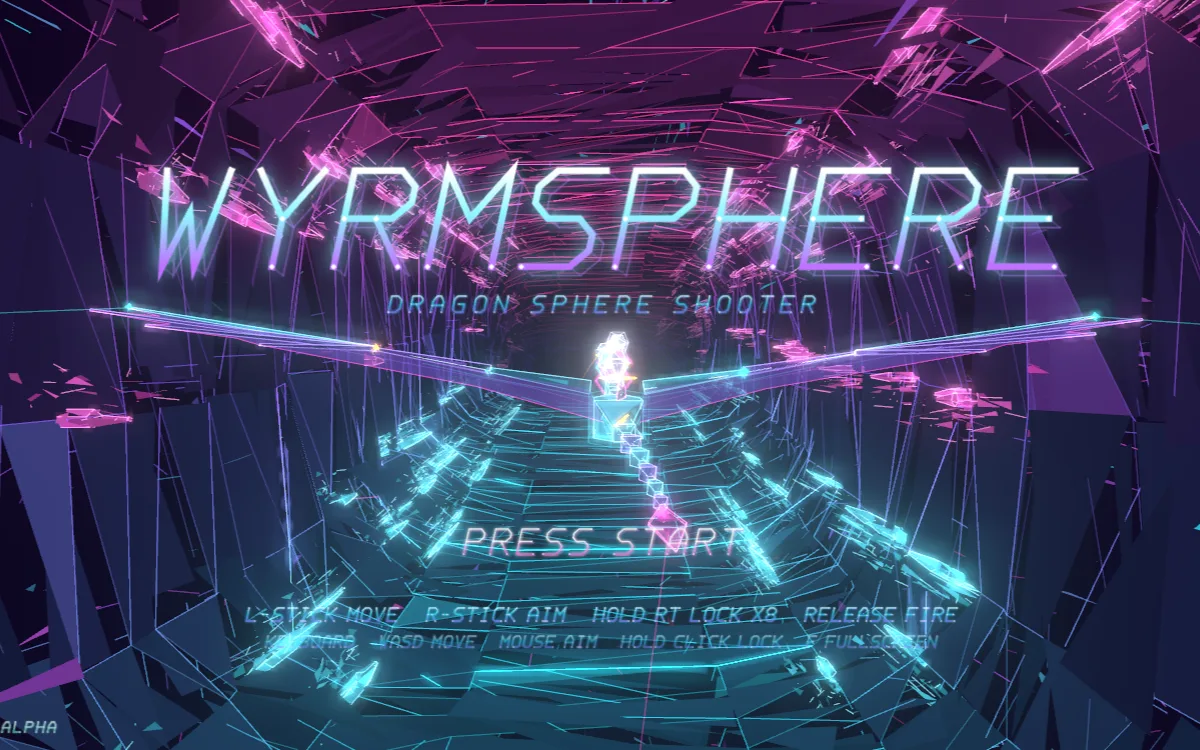
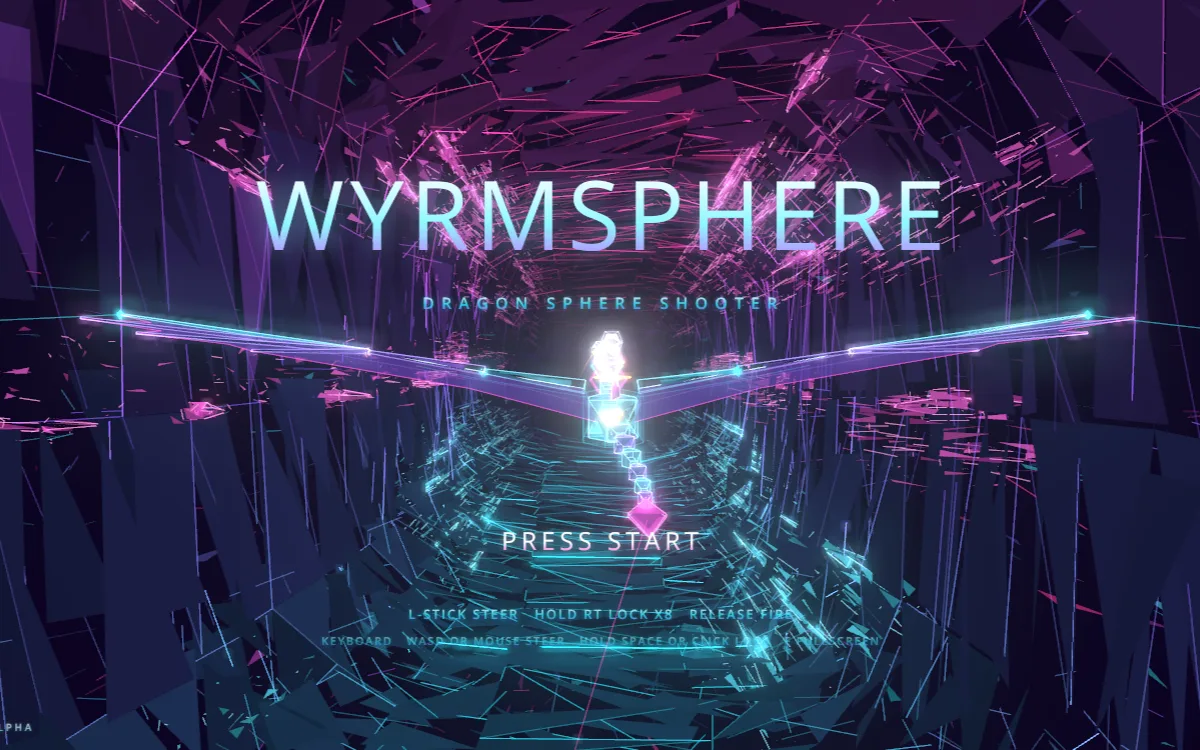
WYRMSPHERE: ロゴ・文字をOpen Sansのすっきりしたサンセリフに、サムネ更新 (#426)
Claude-Session: https://claude.ai/code/session_01EiWRAVsCJU7bhr77LnGrki

diff --git a/wyrm/index.html b/wyrm/index.html
@@ -9,7 +9,7 @@
 <link rel="icon" href="../comet-plus/favicon.svg" type="image/svg+xml">
 <link rel="preconnect" href="https://fonts.googleapis.com">
 <link rel="preconnect" href="https://fonts.gstatic.com" crossorigin>
-<link href="https://fonts.googleapis.com/css2?family=Orbitron:wght@500;700;900&family=Noto+Sans+JP:wght@500;700&display=swap" rel="stylesheet">
+<link href="https://fonts.googleapis.com/css2?family=Open+Sans:wght@300;400;600&family=Noto+Sans+JP:wght@500;700&display=swap" rel="stylesheet">
 <script type="importmap">
 { "imports": {
     "three": "https://cdn.jsdelivr.net/npm/three@0.170.0/build/three.module.min.js",
@@ -19,7 +19,7 @@
 <style>
 :root{--cy:#5ff2ff;--mg:#ff4fd8;--vi:#9b6bff;--gd:#ffc35a}
 *{box-sizing:border-box;margin:0;padding:0}
-html,body{width:100%;height:100%;overflow:hidden;background:#0b0220;color:#fff;font-family:'Orbitron','Noto Sans JP',sans-serif;
+html,body{width:100%;height:100%;overflow:hidden;background:#0b0220;color:#fff;font-family:'Open Sans','Noto Sans JP',sans-serif;
   -webkit-user-select:none;user-select:none;-webkit-touch-callout:none;touch-action:none;-webkit-tap-highlight-color:transparent}
 #root{position:fixed;inset:0;background:#000;overflow:hidden}
 #game{position:absolute;left:50%;top:50%;width:1280px;height:720px;transform:translate(-50%,-50%) scale(var(--s,1));overflow:hidden;background:#0b0220;container-type:size}
@@ -45,7 +45,7 @@ body.mob #game{left:0;top:0;width:100%;height:100%;transform:none}
 .sub{margin-top:18px;font-family:'Noto Sans JP',sans-serif;font-weight:700;font-size:clamp(14px,2cqw,18px);letter-spacing:.2em;color:rgba(230,240,255,.85);text-shadow:0 0 12px rgba(95,242,255,.5)}
 .press{margin-top:clamp(40px,9cqh,90px);font-size:clamp(13px,1.8cqw,17px);letter-spacing:.24em;color:#fff;animation:blink 2.6s ease-in-out infinite;
   display:flex;gap:14px;align-items:center;flex-wrap:wrap;justify-content:center}
-.press kbd,.press .pad{font-family:'Orbitron',sans-serif;font-size:.85em;padding:.35em .8em;border:1px solid rgba(95,242,255,.7);border-radius:6px;
+.press kbd,.press .pad{font-family:'Open Sans',sans-serif;font-size:.85em;padding:.35em .8em;border:1px solid rgba(95,242,255,.7);border-radius:6px;
   box-shadow:0 0 12px rgba(95,242,255,.45),inset 0 0 8px rgba(95,242,255,.25);background:rgba(10,20,40,.4)}
 .press .pad{border-color:rgba(255,79,216,.75);box-shadow:0 0 12px rgba(255,79,216,.45),inset 0 0 8px rgba(255,79,216,.25)}
 .press i{font-style:normal;opacity:.6}
@@ -999,63 +999,29 @@ sndBtn.addEventListener('click', e => { e.stopPropagation(); muted = !muted; snd
 document.getElementById('home').addEventListener('pointerdown', e => e.stopPropagation());
 
 // =====================================================================
-// 前衛的なフォント: 文字はすべてポリゴンの破片とワイヤーフレームで組み立てる
-// （4×6の格子の折れ線＋面の破片＋奥へ押し出したワイヤー＋節点）
+// 文字
 // =====================================================================
-const O_ = [[1, 0], [0, 1], [0, 5], [1, 6], [3, 6], [4, 5], [4, 1], [3, 0], [1, 0]], P_ = [[0, 0], [0, 6], [3, 6], [4, 5], [4, 4], [3, 3], [0, 3]];
-const GLY = {
-    A: [[[0, 0], [0, 4], [1.2, 6], [2.8, 6], [4, 4], [4, 0]], [[0, 2.6], [4, 2.6]]], B: [[[0, 0], [0, 6], [3, 6], [4, 5], [4, 4], [3, 3], [0, 3]], [[3, 3], [4, 2], [4, 1], [3, 0], [0, 0]]],
-    C: [[[4, 6], [1, 6], [0, 5], [0, 1], [1, 0], [4, 0]]], D: [[[0, 0], [0, 6], [2.6, 6], [4, 4.6], [4, 1.4], [2.6, 0], [0, 0]]], E: [[[4, 6], [0, 6], [0, 0], [4, 0]], [[0, 3], [3, 3]]],
-    F: [[[4, 6], [0, 6], [0, 0]], [[0, 3], [3, 3]]], G: [[[4, 6], [1, 6], [0, 5], [0, 1], [1, 0], [4, 0], [4, 3], [2, 3]]], H: [[[0, 0], [0, 6]], [[4, 0], [4, 6]], [[0, 3], [4, 3]]],
-    I: [[[1, 6], [3, 6]], [[2, 6], [2, 0]], [[1, 0], [3, 0]]], J: [[[4, 6], [4, 1], [3, 0], [1, 0], [0, 1]]], K: [[[0, 0], [0, 6]], [[4, 6], [1.2, 3], [0, 3]], [[1.2, 3], [4, 0]]],
-    L: [[[0, 6], [0, 0], [4, 0]]], M: [[[0, 0], [0, 6], [2, 3], [4, 6], [4, 0]]], N: [[[0, 0], [0, 6], [4, 0], [4, 6]]], O: [O_], P: [P_], Q: [O_, [[2.2, 1.8], [4, 0]]],
-    R: [P_, [[2, 3], [4, 0]]], S: [[[4, 6], [1, 6], [0, 5], [0, 4], [1, 3], [3, 3], [4, 2], [4, 1], [3, 0], [0, 0]]], T: [[[0, 6], [4, 6]], [[2, 6], [2, 0]]],
-    U: [[[0, 6], [0, 1], [1, 0], [3, 0], [4, 1], [4, 6]]], V: [[[0, 6], [2, 0], [4, 6]]], W: [[[0, 6], [1, 0], [2, 3.4], [3, 0], [4, 6]]], X: [[[0, 6], [4, 0]], [[4, 6], [0, 0]]],
-    Y: [[[0, 6], [2, 3], [4, 6]], [[2, 3], [2, 0]]], Z: [[[0, 6], [4, 6], [0, 0], [4, 0]]],
-    0: [O_, [[1, 1.2], [3, 4.8]]], 1: [[[1, 5], [2, 6], [2, 0]], [[1, 0], [3, 0]]], 2: [[[0, 5], [1, 6], [3, 6], [4, 5], [4, 4], [0, 0], [4, 0]]],
-    3: [[[0, 6], [4, 6], [2, 3.5], [3, 3.5], [4, 2.5], [4, 1], [3, 0], [0, 0]]], 4: [[[3, 0], [3, 6], [0, 2], [4, 2]]], 5: [[[4, 6], [0, 6], [0, 3.5], [3, 3.5], [4, 2.5], [4, 1], [3, 0], [0, 0]]],
-    6: [[[3, 6], [1, 6], [0, 5], [0, 1], [1, 0], [3, 0], [4, 1], [4, 2], [3, 3], [0, 3]]], 7: [[[0, 6], [4, 6], [1.2, 0]]],
-    8: [[[1, 3], [0, 4], [0, 5], [1, 6], [3, 6], [4, 5], [4, 4], [3, 3], [1, 3], [0, 2], [0, 1], [1, 0], [3, 0], [4, 1], [4, 2], [3, 3]]],
-    9: [[[4, 3], [1, 3], [0, 4], [0, 5], [1, 6], [3, 6], [4, 5], [4, 1], [3, 0], [1, 0]]],
-    '/': [[[0, 0], [4, 6]]], '-': [[[1, 3], [3, 3]]], '+': [[[2, 1.5], [2, 4.5]], [[0.5, 3], [3.5, 3]]], '.': [[[1.6, 0], [2.4, 0], [2.4, 0.8], [1.6, 0.8], [1.6, 0]]],
-    ':': [[[1.6, 1], [2.4, 1], [2.4, 1.8], [1.6, 1.8], [1.6, 1]], [[1.6, 4], [2.4, 4], [2.4, 4.8], [1.6, 4.8], [1.6, 4]]], 'x': [[[0.6, 0.4], [3.4, 3.6]], [[3.4, 0.4], [0.6, 3.6]]],
-};
-const glyCache = new Map();
-function glyph(ch, size, c1, c2, heavy) {
-    const key = ch + size + c1 + c2 + heavy; if (glyCache.has(key)) return glyCache.get(key);
-    const u = size / 6, pad = Math.ceil(u * 2.2), sk = 0.22, w = Math.ceil((4 + 6 * sk + 1.2) * u + pad * 2), h = Math.ceil(size + u * 1.2 + pad * 2);
-    const cv = document.createElement('canvas'); cv.width = w; cv.height = h; const g = cv.getContext('2d');
-    const P = ([x, y], ox = 0, oy = 0) => [pad + (x + y * sk) * u + ox, pad + size - y * u + oy];
-    const st = GLY[ch] || [], ex = u * (heavy ? 0.7 : 0.45), ey = u * (heavy ? 0.55 : 0.35);
-    g.lineJoin = 'miter'; g.lineCap = 'square';
-    // 奥へ押し出したワイヤーと、表と奥をつなぐ線
-    g.strokeStyle = c2; g.globalAlpha = 0.45; g.lineWidth = Math.max(0.8, u * 0.1);
-    st.forEach(l => { g.beginPath(); l.forEach((p, i) => { const q = P(p, ex, ey); i ? g.lineTo(...q) : g.moveTo(...q); }); g.stroke(); });
-    g.globalAlpha = 0.3; st.forEach(l => l.forEach(p => { const a = P(p), b = P(p, ex, ey); g.beginPath(); g.moveTo(...a); g.lineTo(...b); g.stroke(); }));
-    // 面の破片: 線分ごとに片側へ三角形
-    let si = 0; st.forEach(l => { for (let i = 0; i + 1 < l.length; i++, si++) { const a = P(l[i]), b = P(l[i + 1]); const dx = b[0] - a[0], dy = b[1] - a[1], L = Math.hypot(dx, dy) || 1, sd = (si % 2 ? 1 : -1) * u * (heavy ? 0.95 : 0.7);
-        const m = [a[0] + dx * 0.35 - dy / L * sd, a[1] + dy * 0.35 + dx / L * sd];
-        const gr = g.createLinearGradient(a[0], a[1], m[0], m[1]); gr.addColorStop(0, c1); gr.addColorStop(1, 'rgba(0,0,0,0)');
-        g.globalAlpha = heavy ? 0.5 : 0.38; g.fillStyle = gr; g.beginPath(); g.moveTo(...a); g.lineTo(...b); g.lineTo(...m); g.closePath(); g.fill(); } });
-    // 表の線（光る）
-    g.globalAlpha = 1; g.shadowColor = c1; g.shadowBlur = u * (heavy ? 1.2 : 0.8);
-    const lg = g.createLinearGradient(0, pad, 0, pad + size); lg.addColorStop(0, '#ffffff'); lg.addColorStop(0.45, c1); lg.addColorStop(1, c2); g.strokeStyle = lg;
-    g.lineWidth = Math.max(1.3, u * (heavy ? 0.42 : 0.3));
-    st.forEach(l => { g.beginPath(); l.forEach((p, i) => { const q = P(p); i ? g.lineTo(...q) : g.moveTo(...q); }); g.stroke(); });
-    // 節点の小さな菱形
-    g.shadowBlur = 0; g.fillStyle = '#ffffff'; const r = Math.max(1, u * 0.2);
-    st.forEach(l => [l[0], l[l.length - 1]].forEach(p => { const [x, y] = P(p); g.beginPath(); g.moveTo(x, y - r); g.lineTo(x + r, y); g.lineTo(x, y + r); g.lineTo(x - r, y); g.closePath(); g.fill(); }));
-    const o = { cv, pad, adv: (ch === ' ' ? 3.6 : 5.6) * u, u };
-    glyCache.set(key, o); return o;
-}
-// 文字列を描く（cy は文字の縦中央）
+// 文字列を描く（cy は文字の縦中央）。すっきりしたヒューマニスト系サンセリフ（Open Sans）に淡い光をまとわせる
+// 文字列ごとに一度だけ描いてキャッシュするので、毎フレームの負荷はほぼない
+const txtCache = new Map(); let fontReady = false;
+if (document.fonts) document.fonts.load('400 40px "Open Sans"').then(() => { fontReady = true; txtCache.clear(); }).catch(() => {});
 function ptext(g, text, x, cy, size, c1 = '#7ff6ff', c2 = '#b06bff', align = 'center', alpha = 1, heavy = false, track = 0) {
-    text = String(text).toUpperCase(); const gs = [...text].map(ch => glyph(ch, size, c1, c2, heavy));
-    const tw = gs.reduce((m, o) => m + o.adv + track, -track - gs[gs.length - 1]?.u * 1.6 || 0);
-    let px = align === 'center' ? x - tw / 2 : align === 'right' ? x - tw : x;
-    g.globalAlpha = alpha;
-    gs.forEach(o => { g.drawImage(o.cv, px - o.pad, cy - size / 2 - o.pad); px += o.adv + track; });
-    g.globalAlpha = 1; return tw;
+    text = String(text).toUpperCase(); const key = text + '|' + size + c1 + c2 + heavy + track + fontReady;
+    let o = txtCache.get(key);
+    if (!o) {
+        if (txtCache.size > 240) txtCache.clear();
+        const font = (heavy ? 400 : size < 18 ? 600 : 400) + ' ' + size + 'px "Open Sans", "Noto Sans JP", sans-serif', sp = track + size * (heavy ? 0.02 : 0.06);
+        const mg = document.createElement('canvas').getContext('2d'); mg.font = font; if ('letterSpacing' in mg) mg.letterSpacing = sp + 'px';
+        const tw = Math.ceil(mg.measureText(text).width - ('letterSpacing' in mg ? sp : 0)), pad = Math.ceil(size * 0.5);
+        const cv = document.createElement('canvas'); cv.width = tw + pad * 2 + 4; cv.height = Math.ceil(size * 1.5 + pad * 2); const c = cv.getContext('2d');
+        c.font = font; if ('letterSpacing' in c) c.letterSpacing = sp + 'px'; c.textBaseline = 'middle'; const my = cv.height / 2;
+        const gr = c.createLinearGradient(0, my - size * 0.5, 0, my + size * 0.5); gr.addColorStop(0, '#ffffff'); gr.addColorStop(0.55, c1); gr.addColorStop(1, c2);
+        c.shadowColor = c1; c.shadowBlur = size * (heavy ? 0.28 : 0.35); c.globalAlpha = 0.55; c.fillStyle = c1; c.fillText(text, pad, my + size * 0.04);
+        c.shadowBlur = 0; c.globalAlpha = 1; c.fillStyle = gr; c.fillText(text, pad, my + size * 0.04);
+        o = { cv, pad, tw }; txtCache.set(key, o);
+    }
+    const px = align === 'center' ? x - o.tw / 2 : align === 'right' ? x - o.tw : x;
+    g.globalAlpha = alpha; g.drawImage(o.cv, Math.round(px - o.pad), Math.round(cy - o.cv.height / 2)); g.globalAlpha = 1; return o.tw;
 }
 
 // =====================================================================
@@ -1363,7 +1329,7 @@ function collide() {
 
 // ---------------- 画面の文字と照準（すべてポリゴン＋ワイヤーのフォント）----------------
 const uiC = $('ui'), ug = uiC.getContext('2d'); let UIS = 1;
-function uiResize() { const sc = IS_MOBILE ? 1 : Math.min(innerWidth / BASE_W, innerHeight / BASE_H); UIS = Math.min(1.5, (devicePixelRatio || 1) * sc); uiC.width = Math.round(VW * UIS); uiC.height = Math.round(VH * UIS); glyCache.clear(); }
+function uiResize() { const sc = IS_MOBILE ? 1 : Math.min(innerWidth / BASE_W, innerHeight / BASE_H); UIS = Math.min(1.5, (devicePixelRatio || 1) * sc); uiC.width = Math.round(VW * UIS); uiC.height = Math.round(VH * UIS); txtCache.clear(); }
 addEventListener('resize', uiResize); document.addEventListener('fullscreenchange', uiResize); uiResize();
 const T = (text, x, y, size, c1, c2, align, alpha, heavy, track = 0) => ptext(ug, text, x * UIS, y * UIS, Math.round(size * UIS), c1, c2, align, alpha, heavy, track * UIS);
 const hex = c => '#' + _c(c).getHexString();

diff --git a/index.html b/index.html
@@ -816,7 +816,7 @@ const ARCADE = [
 /* 開発室（アルファ版・試作中） */
 const LAB = [
   { id:'hexdeck', href:'./hexdeck/', thumb:'images/hexdeck.webp', icon:'images/icons/hexdeck.svg', kind:'BOARD GAME', key:'hd', alpha:true, tags:['original','ai','mobile'], facts:{ maps:6, players:'1 vs BOT' } },
-  { id:'wyrm', href:'./wyrm/', thumb:'images/wyrm.webp?v=2', icon:'images/icons/wyrm.svg', kind:'3D SHOOTER', key:'wy', name:'WYRMSPHERE', alpha:'pre', tags:['original','gamepad'], facts:{ players:'1' } },
+  { id:'wyrm', href:'./wyrm/', thumb:'images/wyrm.webp?v=3', icon:'images/icons/wyrm.svg', kind:'3D SHOOTER', key:'wy', name:'WYRMSPHERE', alpha:'pre', tags:['original','gamepad'], facts:{ players:'1' } },
 ];
 // published-title count: every game linked from this page (galleries + lab) — updates automatically when games are added
 (function () { const el = document.getElementById('stat-titles'); if (el) el.textContent = GAMES.length + ARCADE.length + LAB.length; })();   // chip order; label keys: gx.all, sub.ai, sub.classic, sub.old
